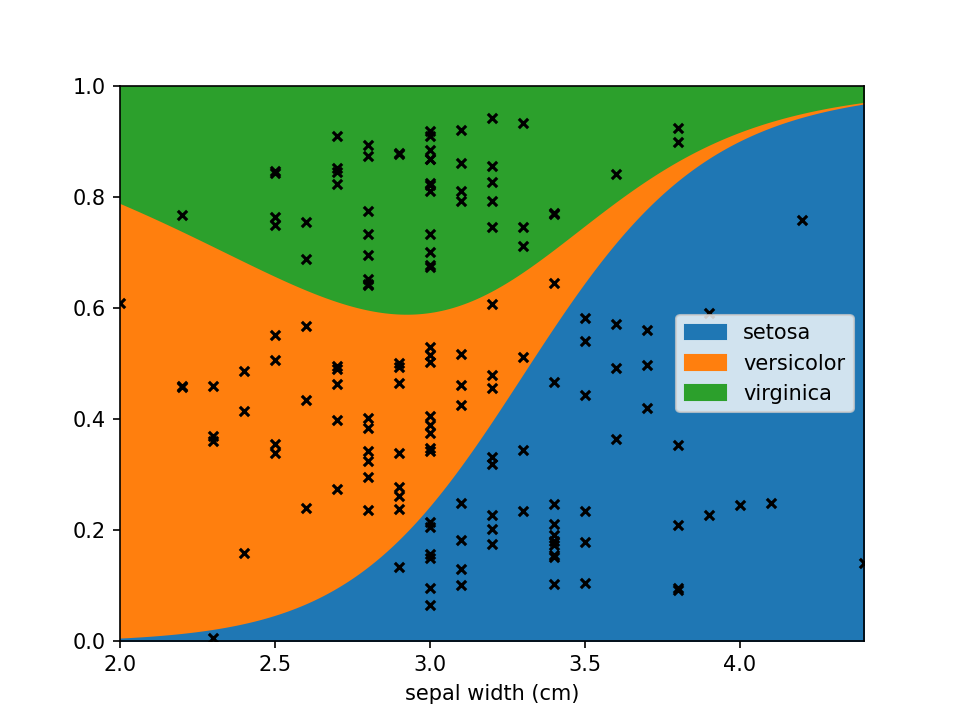
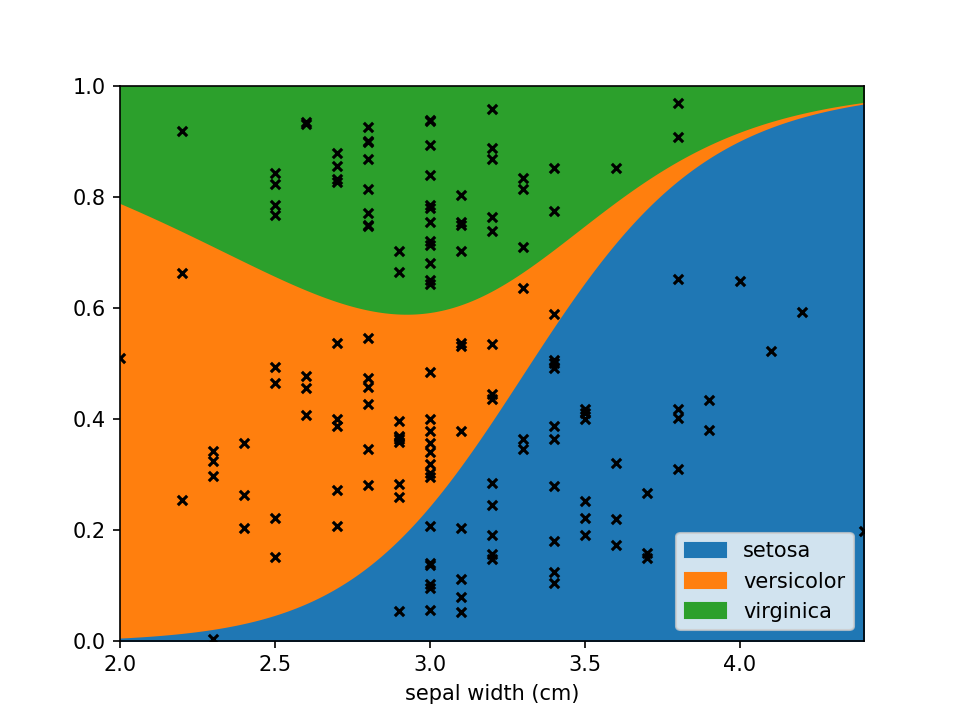
implementation for deconfounding is working (I think), needs further testing

diff --git a/src/lorepy/lorepy.py b/src/lorepy/lorepy.py
@@ -1,3 +1,4 @@
+import pandas as pd
 from sklearn.linear_model import LogisticRegression
 from pandas import DataFrame
 import numpy as np
@@ -5,13 +6,15 @@ import matplotlib.pyplot as plt
 from typing import Optional, Tuple
 
 
-def _get_area_df(X, lg, x_feature, x_range=None) -> DataFrame:
-    values = (
-        np.linspace(X.min(), X.max(), num=200)
-        if x_range is None
-        else np.linspace(x_range[0], x_range[1], num=200)
-    )
-    proba = lg.predict_proba(values.reshape(-1, 1))
+def _get_area_df(X, lg, x_feature, x_range, deconfound=[]) -> DataFrame:
+    values = np.linspace(x_range[0], x_range[1], num=200)
+
+    predict_df = pd.DataFrame({"values": values})
+
+    for k, v in deconfound:
+        predict_df[k] = v
+
+    proba = lg.predict_proba(predict_df.values)
     proba_df = DataFrame(proba, columns=lg.classes_)
     proba_df[x_feature] = values
     proba_df.set_index(x_feature, inplace=True)
@@ -19,11 +22,11 @@ def _get_area_df(X, lg, x_feature, x_range=None) -> DataFrame:
     return proba_df
 
 
-def _get_dots_df(X, y, lg, y_feature) -> DataFrame:
+def _get_dots_df(X, y, lg, y_feature, deconfound=[]) -> DataFrame:
     output = []
 
     for v, s in zip(X, y):
-        proba = lg.predict_proba([v])
+        proba = lg.predict_proba([v] + [i[1] for i in deconfound])
         i = list(lg.classes_).index(s)
         min_value = sum(proba[0][:i])
         max_value = sum(proba[0][: i + 1])
@@ -43,6 +46,7 @@ def loreplot(
     scatter_kws: dict = dict({}),
     ax=None,
     clf=None,
+    deconfound= [],
     **kwargs
 ):
     """
@@ -51,18 +55,25 @@ def loreplot(
     :param data: Pandas dataframe with data
     :param x: Needs to be a numerical feature
     :param y: Categorical feature
-    :param add_dots: Shows where true samples are in the plot
+    :param add_dots: Shows where true samples are in the plot (cannot be enabled when deconfounding for additional variables)
     :param x_range: Either None (range will be selected automatically) or a tuple with min and max value for the x-axis
     :param scatter_kws: Dictionary with keyword arguments to pass to the scatter function
     :param ax: subplot to draw on, in case lorepy is used in a subplot
     :param clf: provide a different scikit-learn classifier for the function. Should implement the predict_proba() and fit()
+    :param deconfound: list of tuples with the feature and reference value e.g. [("BMI", 25)] will deconfound BMI and use a refernce of 25 for plots
     :param kwargs: Additional arguments to pass to pandas' plot.area function
     """
     if ax is None:
         ax = plt.gca()
-    tmp_df = data[[x, y]].dropna()
-    X_reg = np.array(tmp_df[x]).reshape(-1, 1)
+
+    x_features = [x] + [i[0] for i in deconfound]
+
+    tmp_df = data[x_features + [y]].dropna()
+    X_reg = np.array(tmp_df[x_features])
     y_reg = np.array(tmp_df[y])
+
+    if x_range is None:
+        x_range = (X_reg[:, 0].min(), X_reg[:, 0].max())
 
     lg = LogisticRegression(multi_class="multinomial") if clf is None else clf
     lg.fit(X_reg, y_reg)
@@ -70,10 +81,10 @@ def loreplot(
     if "linestyle" not in kwargs.keys():
         kwargs["linestyle"] = "None"
 
-    area_df = _get_area_df(X_reg, lg, x, x_range=x_range)
+    area_df = _get_area_df(X_reg, lg, x, x_range, deconfound=deconfound)
     area_df.plot.area(ax=ax, **kwargs)
 
-    if add_dots:
+    if add_dots and len(deconfound) == 0:
         dot_df = _get_dots_df(X_reg, y_reg, lg, y)
         if "color" not in scatter_kws.keys():
             scatter_kws["color"] = "w"
@@ -81,9 +92,6 @@ def loreplot(
             scatter_kws["alpha"] = 0.3
         ax.scatter(dot_df["x"], dot_df["y"], **scatter_kws)
 
-    if x_range is None:
-        ax.set_xlim(X_reg.min(), X_reg.max())
-    else:
-        ax.set_xlim(*x_range)
+    ax.set_xlim(*x_range)
 
     ax.set_ylim(0, 1)

diff --git a/tests/test_plot.py b/tests/test_plot.py
@@ -83,7 +83,7 @@ def test_get_dots_df():
 
 # Test case for _get_area_df
 def test_get_area_df():
-    area_df = _get_area_df(X_reg, lg, "x")
+    area_df = _get_area_df(X_reg, lg, "x", (X_reg.min(), X_reg.max()))
     assert isinstance(area_df, DataFrame)
     assert "x" not in area_df.columns
     assert 0 in area_df.columns
@@ -91,16 +91,3 @@ def test_get_area_df():
     assert len(area_df) == 200
     assert area_df.index[0] == X_reg.min()
     assert area_df.index[-1] == X_reg.max()
-
-
-# Test case for _get_area_df with custom x_range
-def test_get_area_df_custom_range():
-    x_range = (2.0, 4.0)
-    area_df = _get_area_df(X_reg, lg, "x", x_range=x_range)
-    assert isinstance(area_df, DataFrame)
-    assert "x" not in area_df.columns
-    assert 0 in area_df.columns
-    assert 1 in area_df.columns
-    assert len(area_df) == 200
-    assert area_df.index[0] == x_range[0]
-    assert area_df.index[-1] == x_range[1]

diff --git a/setup.py b/setup.py
@@ -5,7 +5,7 @@ with open("README.md", "r", encoding="utf-8") as fh:
 
 setup(
     name="lorepy",
-    version="0.2.1",
+    version="0.3.0",
     author="Sebastian Proost",
     author_email="sebastian.proost@gmail.com",
     description="Draw Logistic Regression Plots in Python",

diff --git a/example.py b/example.py
@@ -71,3 +71,8 @@ ax[1].set_title("RF")
 
 plt.savefig("./docs/img/loreplot_other_clf.png", dpi=150)
 plt.show()
+
+
+# Basic Lore Plot with default style
+loreplot(data=iris_df, x="sepal width (cm)", y="species", deconfound=[("petal width (cm)", 1)])
+plt.show()
